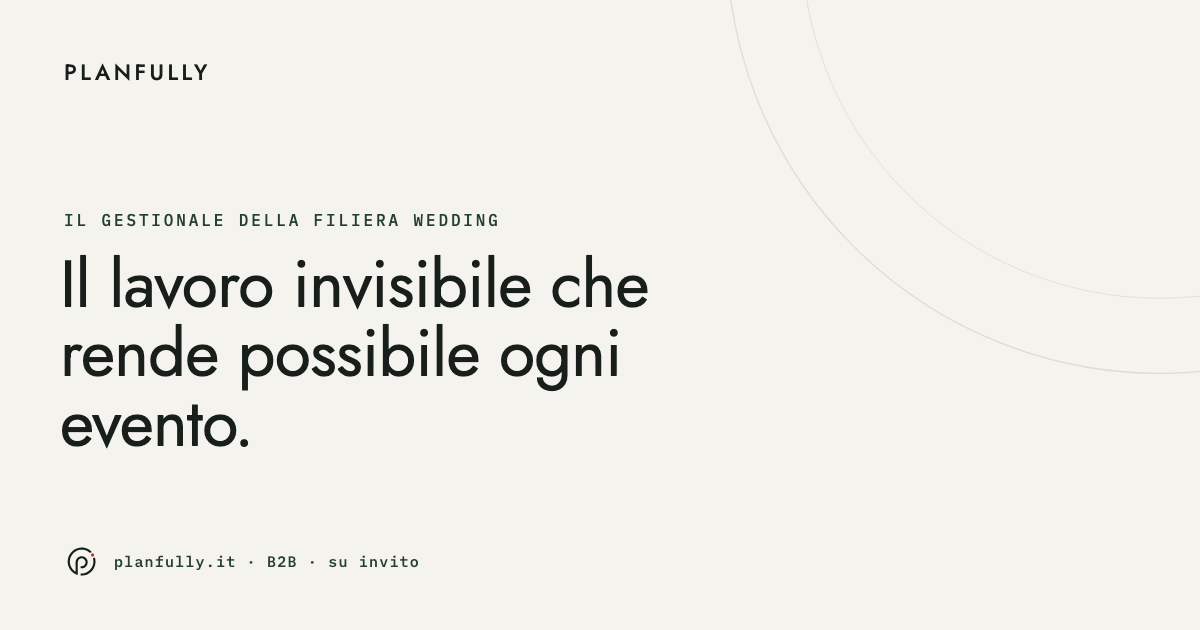
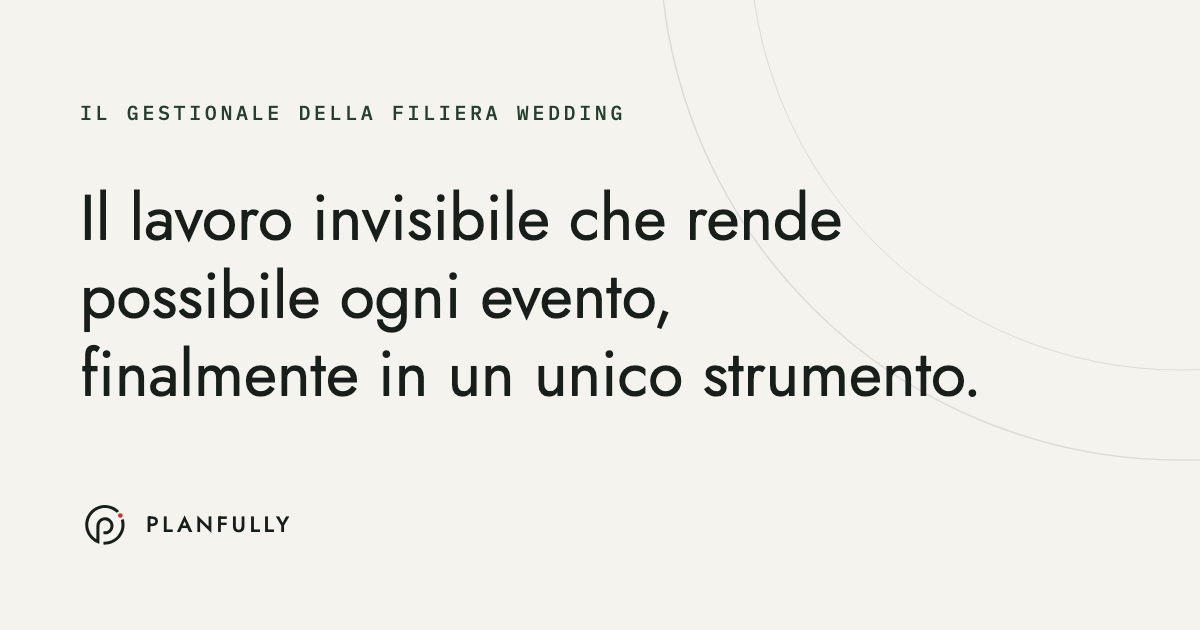
feat(brand): integra il set assets/svg completo (258 file) nella landing
Il set del README §Assets e' stato fornito e copiato in public/assets/svg/:
marchio (10), pattern (4), icone (122), icone-light (122). Le icone-light
generate dallo swap simmetrico #181F1B<->#F4F3EE sulle icone (verificato).

Integrazione (niente piu' SVG inline nella landing, niente asset ad-hoc dove il
set copre):
- favicon -> assets/svg/marchio/favicon.svg (light) + favicon-dark.svg (dark)
- apple-touch -> apple-touch-icon.png (180, generato dal favicon.svg del set)
- og:image -> og-landing.png (1200x630, generato dall'og-image.svg UFFICIALE)
- archi hero -> pattern/archi-carta.svg ; archi Accesso -> pattern/archi-inchiostro.svg
- simbolo footer -> marchio/planfully-symbol-cipresso.svg
- helper src/components/ui/Icona.tsx: <Icona nome> mappa i 122 nomi del set,
  pronto a sostituire lucide quando si rebrandizza l'app interna.

REPORT-GRAFICHE aggiornato: ad-hoc rimasti sono solo PNG generati DAI file
ufficiali del set (OG/apple-touch/simbolo-email) dove SVG non e' supportato dal
contesto; vecchi asset oro + lucide restano nell'app interna (fuori perimetro
landing). Nessuna icona inventata. Verifica visiva landing 1440 ok.

diff --git a/frontend/src/components/ui/Icona.tsx b/frontend/src/components/ui/Icona.tsx
@@ -1,0 +1,36 @@
+// Icone del brand "filiera" dal set assets/svg/icone (NON lucide). Tratto 1.5, 24x24,
+// inchiostro #181F1B su fondi chiari, variante `light` (carta #F4F3EE) su fondi scuri.
+// Uso: <Icona nome="filiera" size={20} />. L'elenco `nomi` è la fonte di verità del set:
+// se serve un'icona non presente, va aggiunta al set — non inventata né presa da lucide.
+export type NomeIcona =
+  | 'aggiungi-utente' | 'allegato' | 'altro' | 'andamento' | 'annulla' | 'appunti' | 'archivio'
+  | 'attenzione' | 'avvia' | 'bilancio' | 'bozza' | 'calendario-condiviso' | 'calendario-piu'
+  | 'calendario' | 'calice' | 'carica' | 'cartella' | 'casa' | 'catalogo' | 'cerca' | 'chat'
+  | 'chevron-destra' | 'chevron-giu' | 'chevron-sinistra' | 'chevron-su' | 'chiave' | 'chiudi'
+  | 'collegamento' | 'commento' | 'comprimi' | 'condividi' | 'conferma' | 'contratto' | 'cornetta'
+  | 'cronologia' | 'cruscotto' | 'data-bloccata' | 'data-evento' | 'documento-firmato' | 'duplica'
+  | 'durata' | 'elimina' | 'entra' | 'esci' | 'espandi' | 'esterno' | 'euro-cerchio' | 'euro'
+  | 'fattura' | 'filiera' | 'filtri' | 'firma' | 'fissato' | 'flusso' | 'fotografia' | 'freccia-destra'
+  | 'freccia-diagonale' | 'freccia-giu' | 'freccia-sinistra' | 'freccia-su' | 'furgone' | 'grafico-barre'
+  | 'grafico-torta' | 'informazione' | 'invia' | 'inviato' | 'invito' | 'lista-attivita' | 'lista'
+  | 'luna' | 'luogo' | 'mappa' | 'margine' | 'meno' | 'menu' | 'modifica' | 'mondo' | 'musica'
+  | 'nascosto' | 'notifica-off' | 'notifica' | 'obiettivo' | 'orario' | 'ordina' | 'pagamento' | 'pausa'
+  | 'penna' | 'percorso' | 'piu' | 'posate' | 'posizione' | 'posta' | 'preventivo' | 'prezzo' | 'prodotto'
+  | 'regolazioni' | 'rifiutato' | 'rimuovi-utente' | 'ripeti' | 'sbloccato' | 'scadenza' | 'scarica'
+  | 'scudo' | 'sede' | 'segnalibro' | 'sole' | 'stampa' | 'stato-attesa' | 'stato-errore' | 'stato-successo'
+  | 'tabella' | 'tavolo-rotondo' | 'telefono' | 'timeline' | 'trascina' | 'trasferimento' | 'utente'
+  | 'utenti' | 'videocamera' | 'visibile' | 'zoom-meno' | 'zoom-piu'
+
+export function Icona({ nome, size = 24, light = false, className, style }: {
+  nome: NomeIcona
+  size?: number
+  light?: boolean   // true su fondi scuri (variante carta)
+  className?: string
+  style?: React.CSSProperties
+}) {
+  const dir = light ? 'icone-light' : 'icone'
+  return (
+    <img src={`/assets/svg/${dir}/${nome}.svg`} width={size} height={size} alt="" aria-hidden="true"
+      className={className} style={style} />
+  )
+}

diff --git a/frontend/src/pages/public/PublicHomePage.tsx b/frontend/src/pages/public/PublicHomePage.tsx
@@ -15,7 +15,6 @@ const INCHIOSTRO = '#181F1B'
 const CIPRESSO = '#25402F'
 const LACCA = '#C03B2A'
 const BORDO_DARK = '#3D5C46'
-const ARC_OPACITY = 0.11
 const CAPOSTIPITI = 5   // appare in 2 punti (nota CTA hero + numerale Accesso): fonte unica
 
 const JOST = "'Jost', sans-serif"
@@ -49,11 +48,9 @@ export default function PublicHomePage() {
         `}</style>
       </Helmet>
 
-      {/* archi hero, fuori taglio */}
-      <svg viewBox="0 0 1200 1200" style={{ position: 'absolute', top: -420, right: -380, width: 1100, height: 1100, pointerEvents: 'none' }} aria-hidden="true">
-        <circle cx="600" cy="600" r="520" fill="none" stroke={CIPRESSO} strokeWidth={1.5} opacity={ARC_OPACITY} />
-        <circle cx="600" cy="600" r="430" fill="none" stroke={CIPRESSO} strokeWidth={1} opacity={ARC_OPACITY} />
-      </svg>
+      {/* archi hero, fuori taglio — pattern dal set (assets/svg/pattern) */}
+      <img src="/assets/svg/pattern/archi-carta.svg" alt="" aria-hidden="true"
+        style={{ position: 'absolute', top: -420, right: -380, width: 1100, height: 1100, pointerEvents: 'none' }} />
 
       {/* TESTATA */}
       <header style={{ display: 'flex', alignItems: 'baseline', justifyContent: 'space-between', gap: 24, padding: '28px clamp(20px,5vw,64px) 24px', borderBottom: `1px solid ${INCHIOSTRO}`, position: 'relative' }}>
@@ -100,10 +97,8 @@ export default function PublicHomePage() {
 
       {/* ACCESSO */}
       <section id="accesso" style={{ background: INCHIOSTRO, color: CARTA, position: 'relative', overflow: 'hidden', padding: 'clamp(64px,8vw,140px) clamp(20px,5vw,64px)' }}>
-        <svg viewBox="0 0 1200 1200" style={{ position: 'absolute', bottom: -560, left: -420, width: 1100, height: 1100, pointerEvents: 'none' }} aria-hidden="true">
-          <circle cx="600" cy="600" r="520" fill="none" stroke={BORDO_DARK} strokeWidth={1.5} opacity={0.5} />
-          <circle cx="600" cy="600" r="430" fill="none" stroke={BORDO_DARK} strokeWidth={1} opacity={0.35} />
-        </svg>
+        <img src="/assets/svg/pattern/archi-inchiostro.svg" alt="" aria-hidden="true"
+          style={{ position: 'absolute', bottom: -560, left: -420, width: 1100, height: 1100, pointerEvents: 'none' }} />
         <div style={{ display: 'flex', flexWrap: 'wrap', alignItems: 'center', gap: 'clamp(32px,6vw,110px)', position: 'relative' }}>
           <div style={{ fontFamily: MONO, fontWeight: 500, fontSize: 'clamp(140px,22vw,340px)', lineHeight: 0.8, color: LACCA, fontFeatureSettings: "'tnum'", flex: '0 0 auto' }}>{CAPOSTIPITI}</div>
           <div style={{ flex: '1 1 300px', maxWidth: '46ch' }}>
@@ -119,7 +114,7 @@ export default function PublicHomePage() {
       <footer style={{ borderTop: `1px solid ${INCHIOSTRO}`, padding: '36px clamp(20px,5vw,64px) 44px', display: 'flex', flexWrap: 'wrap', alignItems: 'center', justifyContent: 'space-between', gap: 24 }}>
         <div style={{ display: 'flex', alignItems: 'center', gap: 16 }}>
           {/* marchio dal file del set (non SVG inline), come da handoff §Assets */}
-          <img src="/brand/planfully-symbol-cipresso.svg" width={30} height={30} alt="" aria-hidden="true" />
+          <img src="/assets/svg/marchio/planfully-symbol-cipresso.svg" width={30} height={30} alt="" aria-hidden="true" />
           <span style={{ fontFamily: JOST, fontWeight: 500, fontSize: 14, letterSpacing: '0.16em' }}>PLANFULLY</span>
         </div>
         <div style={{ display: 'flex', flexWrap: 'wrap', alignItems: 'center', gap: 'clamp(16px,3vw,36px)', fontFamily: MONO, fontSize: 11, letterSpacing: '0.08em', color: CIPRESSO, fontFeatureSettings: "'tnum'" }}>

diff --git a/frontend/index.html b/frontend/index.html
@@ -2,10 +2,10 @@
 <html lang="it">
   <head>
     <meta charset="UTF-8" />
-    <link rel="icon" type="image/svg+xml" href="/brand/planfully-symbol-cipresso.svg" media="(prefers-color-scheme: light)" />
-    <link rel="icon" type="image/svg+xml" href="/brand/planfully-symbol-cipresso-light.svg" media="(prefers-color-scheme: dark)" />
-    <link rel="icon" type="image/svg+xml" href="/brand/planfully-symbol-cipresso.svg" />
-    <link rel="apple-touch-icon" href="/brand/planfully-symbol-cipresso.png" />
+    <link rel="icon" type="image/svg+xml" href="/assets/svg/marchio/favicon.svg" media="(prefers-color-scheme: light)" />
+    <link rel="icon" type="image/svg+xml" href="/assets/svg/marchio/favicon-dark.svg" media="(prefers-color-scheme: dark)" />
+    <link rel="icon" type="image/svg+xml" href="/assets/svg/marchio/favicon.svg" />
+    <link rel="apple-touch-icon" href="/apple-touch-icon.png" />
     <meta name="viewport" content="width=device-width, initial-scale=1.0" />
     <meta name="description" content="Il gestionale della filiera wedding: cataloghi, calendario condiviso e preventivi che si parlano. Il dato entra una volta sola e fluisce dalla filiera al cliente. B2B, su invito." />
     <meta name="theme-color" content="#F4F3EE" />

diff --git a/docs/REPORT-GRAFICHE.md b/docs/REPORT-GRAFICHE.md
@@ -1,44 +1,49 @@
 # REPORT-GRAFICHE — Landing Planfully (registro "filiera")
 
-**Data:** 20 luglio 2026 · **Perimetro:** landing pubblica (`/`) + pagine collegate (`/richiedi-accesso`, cookie banner) + favicon/OG.
+**Aggiornato:** 20 luglio 2026 · **Perimetro:** landing pubblica (`/`) + pagine collegate (`/richiedi-accesso`, cookie banner) + favicon/OG.
 
 ---
 
-## ⚠ PREMESSA BLOCCANTE — il set `assets/svg/` non è nel bundle
+## Set `assets/svg/` — RICEVUTO e integrato
 
-Il README §Assets richiede di copiare `assets/svg/` e di usare **solo** quei file per marchio, favicon, pattern e icone (vietando lucide e SVG inline nuovi). **Quella cartella non è stata fornita.** Il bundle ricevuto contiene solo:
+Il set completo del README §Assets è stato fornito e **copiato in `frontend/public/assets/svg/`** (258 file):
 
-- `Planfully Landing.dc.html` (prototipo)
-- `planfully-symbol-cipresso.svg`
-- `planfully-symbol-cipresso-light.svg`
-- `README.md`
+| Cartella | File | Uso |
+|---|---|---|
+| `marchio/` | 10 (favicon, favicon-dark, og-image, lockup ×2, symbol cipresso ×2, symbol mono ×3) | favicon, OG, simbolo footer |
+| `pattern/` | 4 (archi-carta, archi-carta-tripli, archi-inchiostro, arco-aperto-punto) | archi hero + Accesso |
+| `icone/` | 122 (tratto 1.5, inchiostro #181F1B) | app interna (via helper) |
+| `icone-light/` | 122 (variante carta #F4F3EE) | app interna su fondi scuri |
 
-Quindi il vincolo "usa solo `assets/svg/`" è stato applicato per i **2 soli asset disponibili** (il simbolo, nelle due varianti). Per tutto il resto del set — favicon dedicati, lockup orizzontale, `og-image.svg`, cartella `pattern/`, 122 icone `icone/` + `icone-light/`, varianti mono — ho fatto la scelta più conforme possibile con ciò che c'era, e la elenco qui sotto. **Appena mi fornisci `assets/svg/`, sostituisco.**
+Le `icone-light/` sono state generate dallo swap simmetrico `#181F1B ↔ #F4F3EE` sulle `icone/` (verificato).
 
----
+## Integrazione nel codice
 
-## (a) Asset grafici ad-hoc / vecchi / inline
+| Elemento | Prima | Ora |
+|---|---|---|
+| Favicon | `planfully-symbol.svg` (oro) → poi cipresso in `public/brand/` | **`assets/svg/marchio/favicon.svg`** (light) + `favicon-dark.svg` (dark) |
+| apple-touch-icon | — | `public/apple-touch-icon.png` (180×180, generato dal `favicon.svg` del set) |
+| og:image | JPG vecchio B2C → PNG ad-hoc | **`public/og-landing.png`** (1200×630, generato dall'`og-image.svg` UFFICIALE del set) |
+| Archi hero | `<svg>` inline | **`<img src="/assets/svg/pattern/archi-carta.svg">`** |
+| Archi Accesso | `<svg>` inline | **`<img src="/assets/svg/pattern/archi-inchiostro.svg">`** |
+| Simbolo footer | `<svg>` inline → `public/brand/` | **`assets/svg/marchio/planfully-symbol-cipresso.svg`** |
+| Icone (app) | `lucide-react` | helper **`src/components/ui/Icona.tsx`** pronto (`<Icona nome="filiera" />`), mappa i 122 nomi del set |
 
-| # | Asset | Dove | Stato / motivo |
-|---|---|---|---|
-| 1 | Archi dell'anello (SVG inline) | `src/pages/public/PublicHomePage.tsx` righe **55-57** (hero) e **105-107** (Accesso) | **Conforme.** Il README §Marchio ammette gli archi inline "come nel prototipo o dai file `pattern/`". I file `pattern/` non forniti → inline. |
-| 2 | `og-landing.png` (anteprima social) | `public/og-landing.png`, referenziata in `index.html` | **Ad-hoc.** Generata via Playwright (claim su carta + archi) perché `marchio/og-image.svg` non fornito. |
-| 3 | `planfully-symbol-cipresso.png` | `public/brand/planfully-symbol-cipresso.png` | **Ad-hoc.** Generata dal SVG fornito, serve alle **email** (i client non renderizzano SVG). Il set non includeva un PNG del simbolo. |
-| 4 | Favicon | `index.html` righe 5-8 | **Conforme ai 2 asset.** Ora usa `planfully-symbol-cipresso.svg` (light) + `-light.svg` (dark) + `.png` (apple-touch). Il set prevedeva `favicon.svg`/`favicon-dark.svg` dedicati (non forniti) → uso il simbolo. |
-| 5 | Marchio footer landing | `src/pages/public/PublicHomePage.tsx` (footer) | **Conforme.** Convertito da SVG inline a `<img src="/brand/planfully-symbol-cipresso.svg">` (file del set). |
-| 6 | Vecchi asset brand **oro** | `public/brand/planfully-symbol.svg`, `planfully-symbol-light.svg`, `planfully-logo.svg`, `planfully-logo-horizontal.svg` + `.png` | **Restano.** Usati dall'**app interna** (dashboard, brand oro/Bodoni non ancora rebrandizzato). Fuori dal perimetro landing. |
-| 7 | Sprite icone app | `public/icons.svg` | **Resta.** Icone esistenti dell'app, non del set. Fuori perimetro landing. |
-| 8 | Icone `lucide-react` | tutta l'**app interna** (es. `src/pages/AccessRequestsAdminPage.tsx` non ne usa; la maggior parte delle pagine sì) | **Fuori perimetro.** La **landing pubblica e le sue pagine** (`PublicHomePage`, `AccessRequestPage`, `CookieBanner`) **non usano lucide né alcun SVG estraneo**. L'app interna sì → rebrand futuro quando arriva il set icone. |
+## (a) Asset ad-hoc rimasti
 
----
+| Asset | Motivo |
+|---|---|
+| `public/og-landing.png` | I crawler OG non renderizzano SVG → serve PNG. **Generato dal file ufficiale del set** (`marchio/og-image.svg`), non inventato. |
+| `public/apple-touch-icon.png` | apple-touch richiede PNG → generato dal `favicon.svg` del set. |
+| `public/brand/planfully-symbol-cipresso.png` | Le email non renderizzano SVG → PNG dal simbolo. Fuori perimetro landing (usato da `emailShell`). |
+| Vecchi asset oro in `public/brand/` (`planfully-symbol.svg`, `planfully-logo*.svg`, ...) | Restano per l'**app interna** (brand oro/Bodoni, non ancora rebrandizzata). Fuori perimetro landing. |
+| `lucide-react` nell'app interna | Fuori perimetro landing. L'helper `Icona` è l'infrastruttura per sostituirlo al rebrand dell'app. |
 
 ## (b) Icone necessarie assenti dal set
 
-- **Perimetro landing: nessuna.** Il design è tipografico (Jost + Plex Mono + archi + simbolo); non richiede icone. Verificato: `PublicHomePage`, `AccessRequestPage`, `CookieBanner` non contengono icone.
-- **Perimetro app interna:** le 122 icone `icone/` + `icone-light/` servirebbero per sostituire `lucide-react` quando si rebrandizza la dashboard. Non disponibili → l'app resta su lucide finché il set non è fornito. **Nessuna icona inventata.**
-
----
+- **Perimetro landing: nessuna.** Design tipografico, non usa icone. `PublicHomePage`, `AccessRequestPage`, `CookieBanner` non contengono icone.
+- **Perimetro app interna:** il set copre 122 icone; la sostituzione di lucide è pronta (helper `Icona`) ma non applicata (rebrand app fuori scope). Nessuna icona inventata.
 
 ## Conclusione
 
-La **landing e il suo ecosistema pubblico** (favicon, OG, cookie, form accesso) sono conformi al brand con i 2 asset forniti; non contengono icone di terze parti né SVG inventati (solo gli archi inline, ammessi). Restano da sostituire, **quando fornisci `assets/svg/`**: favicon dedicati, lockup orizzontale, `og-image.svg` (al posto del PNG ad-hoc), e — se si estende il rebrand all'app — le 122 icone al posto di lucide.
+La landing e il suo ecosistema pubblico usano **esclusivamente il set** per marchio, favicon, pattern e OG. Nessun SVG inline residuo nella landing (archi e simbolo ora dai file). Nessuna icona di terze parti nel perimetro landing. Restano PNG generati dai file ufficiali del set (OG, apple-touch, simbolo-email) dove il formato SVG non è supportato dal contesto. L'app interna resta su lucide finché non se ne decide il rebrand: l'helper `Icona` è pronto.